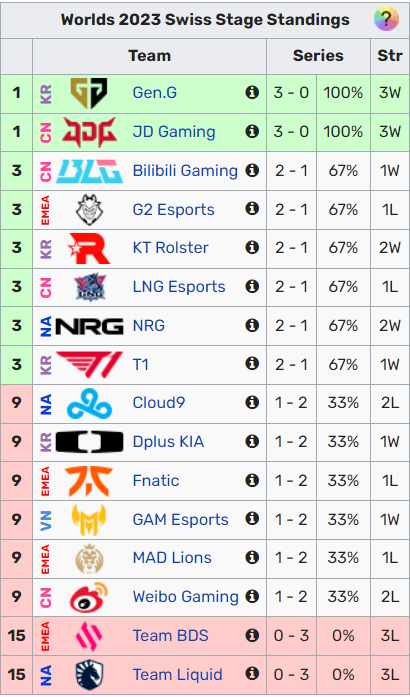
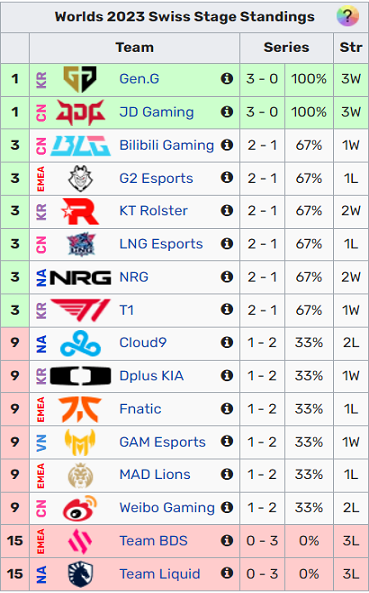
asd

diff --git a/main.html b/main.html
@@ -26,6 +26,7 @@
         <p>Od roku 2023 sa tímy z regiónu LCL (CIS), TCL (Turecko) a LCO (Oceánia) už nekvalifikovali priamo na majstrovstvá sveta, pretože ich ligy boli zrušené (LCL, prebiehajúca ruská invázia na Ukrajinu) a znížené (TCL bolo sa zlúčili do LEC, LCO sa zlúčili do PCS).</p>
         <p>Počet tímov sa oproti minulému roku znížil z 24 na 22. Čo sa týka nasadenia, prvé nasadené tímy z PCS (Ázia-Pacifik) a VCS (Vietnam) boli zoradené a začali v play-in, zatiaľ čo štvrté tímy z LCK (Južná Kórea), LPL (Čína) a tretie nasadené z LEC (EMEA) a LCS (Severná Amerika) postúpili do hlavného podujatia. Pred výkopom turnaja sa odohral zápas „Worlds Qualifying Series“ medzi štvrtými nasadenými tímami z LEC a LCS, ktorý rozhodol o poslednom tíme pre play-in.</p>
         <p>Play-in skupiny boli zmenené na dvojitý eliminačný formát v štýle GSL, zatiaľ čo prvá fáza hlavného turnaja bola zmenená zo skupinovej fázy s dvoma kolami na švajčiarsky formát.</p>
+        <img src="img/sad.jpg" alt="Lol Arena">
     </div>
 
 

diff --git a/Swiss-stage.html b/Swiss-stage.html
@@ -130,6 +130,12 @@
             </tr>
             </tbody>
         </table>
+        <br>
+
+        <br>
+        <h2>Aktuálne postavenie</h2>
+
+        <img id="postavenie" src="img/Screenshot%202023-10-24%20233255.png" alt="postavenia">
     </div>
 
 </body>

diff --git a/style.css b/style.css
@@ -17,6 +17,14 @@ table{
     min-height: 25vh;
     min-width: 25vw;
 }
+h3{
+    text-align: center;
+}
+#postavenie{
+    display: block;
+    margin-left: auto;
+    margin-right: auto;
+}
 
 .region{
     background-color: silver;
